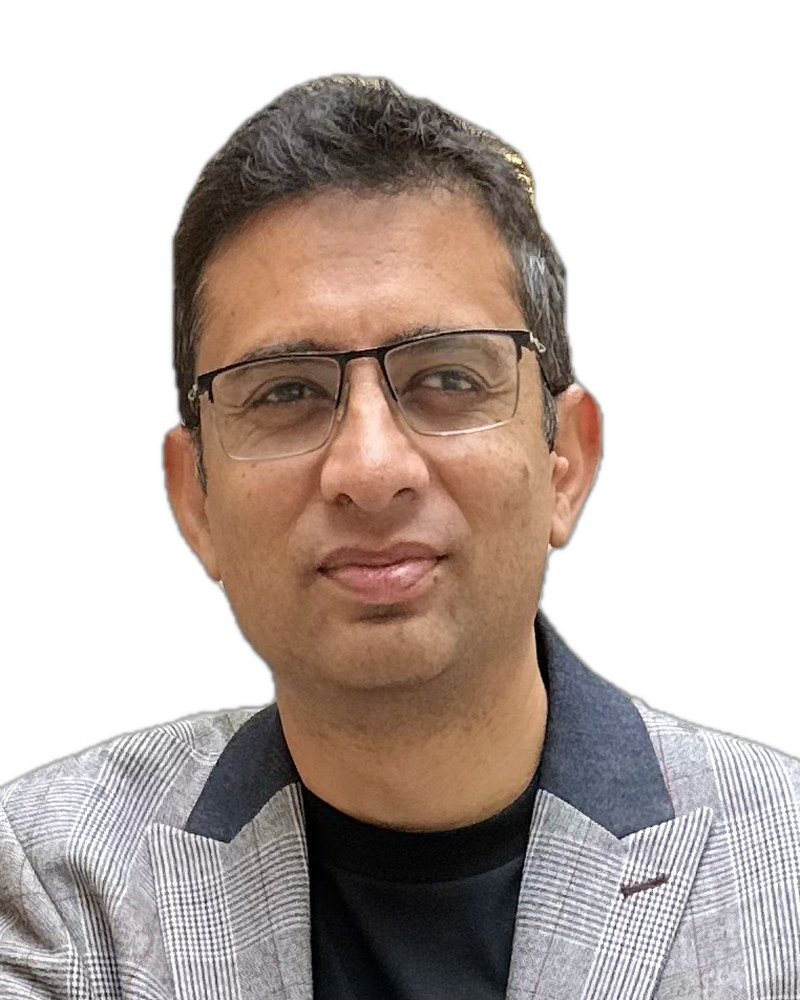
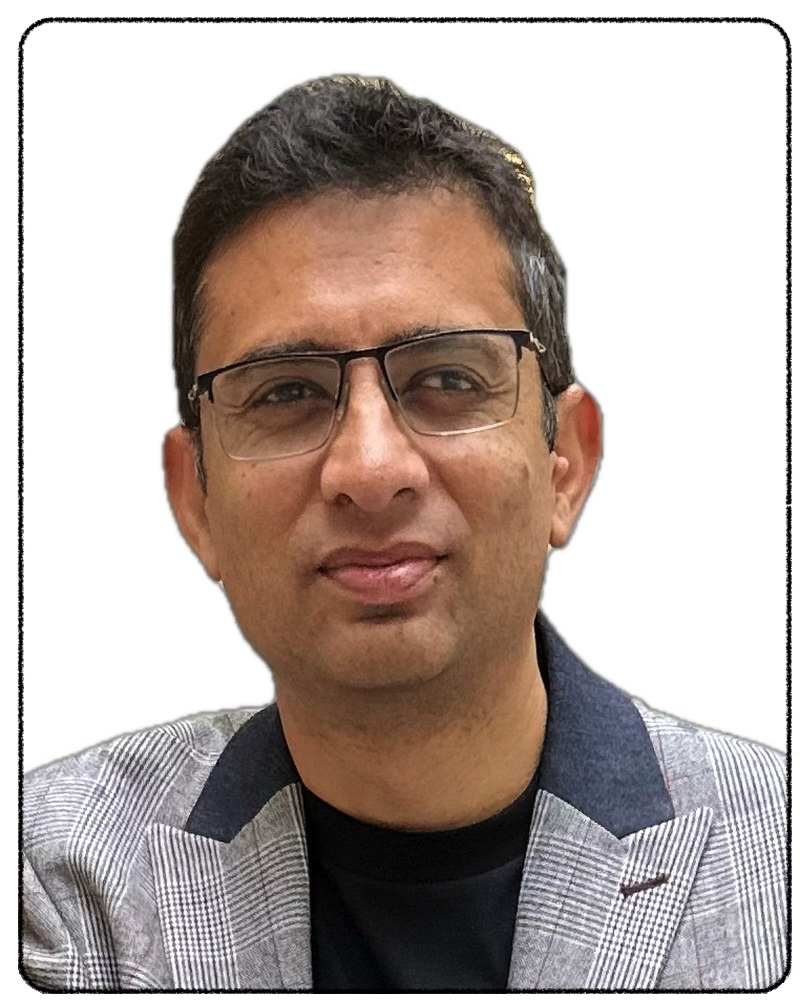
Add files via upload

Changed region(s): [[0.0, 0.031, 1.0, 1.0], [0.0312, 0.0, 0.9688, 0.031]]

diff --git a/site.js b/site.js
@@ -1,0 +1,46 @@
+/* samaransari.com  |  shared behaviour  |  2026-09-10
+   Creates a back-to-top button and shows it once the page is scrolled.
+   Every page loads this file, so changes here apply everywhere. */
+
+(function () {
+  var btn = document.createElement('button');
+  btn.className = 'to-top';
+  btn.type = 'button';
+  btn.setAttribute('aria-label', 'Back to top');
+  btn.setAttribute('aria-hidden', 'true');
+  btn.innerHTML =
+    '<svg viewBox="0 0 24 24" width="18" height="18" aria-hidden="true" focusable="false">' +
+    '<path d="M12 19V6M12 5l-7 7M12 5l7 7" fill="none" stroke="currentColor" ' +
+    'stroke-width="2" stroke-linecap="square"/></svg>';
+  document.body.appendChild(btn);
+
+  var shown = false;
+  var threshold = 700;
+
+  function update() {
+    var y = window.pageYOffset || document.documentElement.scrollTop;
+    var should = y > threshold;
+    if (should !== shown) {
+      shown = should;
+      btn.classList.toggle('is-visible', shown);
+      btn.setAttribute('aria-hidden', shown ? 'false' : 'true');
+    }
+  }
+
+  var ticking = false;
+  window.addEventListener('scroll', function () {
+    if (!ticking) {
+      window.requestAnimationFrame(function () { update(); ticking = false; });
+      ticking = true;
+    }
+  }, { passive: true });
+
+  btn.addEventListener('click', function () {
+    var reduce = window.matchMedia('(prefers-reduced-motion: reduce)').matches;
+    window.scrollTo({ top: 0, behavior: reduce ? 'auto' : 'smooth' });
+    var brand = document.querySelector('.site .brand');
+    if (brand) { brand.focus({ preventScroll: true }); }
+  });
+
+  update();
+})();

diff --git a/style.css b/style.css
@@ -225,3 +225,33 @@ footer.site-foot{
   margin-top:clamp(3rem,8vw,4.5rem);
 }
 footer.site-foot p{max-width:none;margin:0 0 .3rem}
+
+/* ---- back to top button (created by site.js) ---- */
+.to-top{
+  position:fixed;
+  right:clamp(.9rem,3vw,1.75rem);
+  bottom:calc(clamp(.9rem,3vw,1.75rem) + env(safe-area-inset-bottom,0px));
+  width:2.9rem;
+  height:2.9rem;
+  display:grid;
+  place-items:center;
+  padding:0;
+  border:1px solid var(--line);
+  border-radius:2px;
+  background:var(--bg);
+  color:var(--accent);
+  cursor:pointer;
+  box-shadow:0 1px 3px rgba(18,23,27,.10);
+  opacity:0;
+  visibility:hidden;
+  transform:translateY(.4rem);
+  transition:opacity .18s ease, transform .18s ease, visibility .18s;
+  z-index:50;
+}
+.to-top.is-visible{opacity:1;visibility:visible;transform:none}
+.to-top:hover{border-color:var(--accent);background:var(--tint)}
+.to-top:focus-visible{outline:2px solid var(--accent);outline-offset:3px}
+@media (prefers-reduced-motion: reduce){
+  .to-top{transition:none}
+  html{scroll-behavior:auto}
+}

diff --git a/teaching.html b/teaching.html
@@ -17,7 +17,7 @@
 <body>
 <div class="wrap">
 <header class="site">
-  <a class="brand" href="index.html">Samar Ansari</a>
+  <a class="brand" href="index.html" id="top">Samar Ansari</a>
   <nav aria-label="Main"><ul><li><a href="index.html">Home</a></li><li><a href="research.html">Research</a></li><li><a href="publications.html">Publications</a></li><li><a href="teaching.html" aria-current="page">Teaching</a></li><li><a href="writing.html">Writing</a></li><li><a href="cv.html">CV and contact</a></li></ul></nav>
 </header>
 <h1 class="page-title">Teaching and supervision</h1>
@@ -79,5 +79,6 @@
 <p>Page last updated 8 September 2026.</p>
 </footer>
 </div>
+<script src="site.js" defer></script>
 </body>
 </html>

diff --git a/writing.html b/writing.html
@@ -17,7 +17,7 @@
 <body>
 <div class="wrap">
 <header class="site">
-  <a class="brand" href="index.html">Samar Ansari</a>
+  <a class="brand" href="index.html" id="top">Samar Ansari</a>
   <nav aria-label="Main"><ul><li><a href="index.html">Home</a></li><li><a href="research.html">Research</a></li><li><a href="publications.html">Publications</a></li><li><a href="teaching.html">Teaching</a></li><li><a href="writing.html" aria-current="page">Writing</a></li><li><a href="cv.html">CV and contact</a></li></ul></nav>
 </header>
 <h1 class="page-title">Writing and open work</h1>
@@ -46,5 +46,6 @@
 <p>Page last updated 8 September 2026.</p>
 </footer>
 </div>
+<script src="site.js" defer></script>
 </body>
 </html>

diff --git a/cv.html b/cv.html
@@ -17,7 +17,7 @@
 <body>
 <div class="wrap">
 <header class="site">
-  <a class="brand" href="index.html">Samar Ansari</a>
+  <a class="brand" href="index.html" id="top">Samar Ansari</a>
   <nav aria-label="Main"><ul><li><a href="index.html">Home</a></li><li><a href="research.html">Research</a></li><li><a href="publications.html">Publications</a></li><li><a href="teaching.html">Teaching</a></li><li><a href="writing.html">Writing</a></li><li><a href="cv.html" aria-current="page">CV and contact</a></li></ul></nav>
 </header>
 <h1 class="page-title">CV and contact</h1>
@@ -88,5 +88,6 @@
 <p>Page last updated 8 September 2026.</p>
 </footer>
 </div>
+<script src="site.js" defer></script>
 </body>
 </html>

diff --git a/publications.html b/publications.html
@@ -17,7 +17,7 @@
 <body>
 <div class="wrap">
 <header class="site">
-  <a class="brand" href="index.html">Samar Ansari</a>
+  <a class="brand" href="index.html" id="top">Samar Ansari</a>
   <nav aria-label="Main"><ul><li><a href="index.html">Home</a></li><li><a href="research.html">Research</a></li><li><a href="publications.html" aria-current="page">Publications</a></li><li><a href="teaching.html">Teaching</a></li><li><a href="writing.html">Writing</a></li><li><a href="cv.html">CV and contact</a></li></ul></nav>
 </header>
 <h1 class="page-title">Publications</h1>
@@ -227,5 +227,6 @@
 <p>Page last updated 8 September 2026.</p>
 </footer>
 </div>
+<script src="site.js" defer></script>
 </body>
 </html>

diff --git a/research.html b/research.html
@@ -17,7 +17,7 @@
 <body>
 <div class="wrap">
 <header class="site">
-  <a class="brand" href="index.html">Samar Ansari</a>
+  <a class="brand" href="index.html" id="top">Samar Ansari</a>
   <nav aria-label="Main"><ul><li><a href="index.html">Home</a></li><li><a href="research.html" aria-current="page">Research</a></li><li><a href="publications.html">Publications</a></li><li><a href="teaching.html">Teaching</a></li><li><a href="writing.html">Writing</a></li><li><a href="cv.html">CV and contact</a></li></ul></nav>
 </header>
 <h1 class="page-title">Research</h1>
@@ -89,5 +89,6 @@
 <p>Page last updated 8 September 2026.</p>
 </footer>
 </div>
+<script src="site.js" defer></script>
 </body>
 </html>

diff --git a/index.html b/index.html
@@ -38,7 +38,7 @@
 <body>
 <div class="wrap">
 <header class="site">
-  <a class="brand" href="index.html">Samar Ansari</a>
+  <a class="brand" href="index.html" id="top">Samar Ansari</a>
   <nav aria-label="Main"><ul><li><a href="index.html" aria-current="page">Home</a></li><li><a href="research.html">Research</a></li><li><a href="publications.html">Publications</a></li><li><a href="teaching.html">Teaching</a></li><li><a href="writing.html">Writing</a></li><li><a href="cv.html">CV and contact</a></li></ul></nav>
 </header>
 <div class="masthead">
@@ -84,5 +84,6 @@
 <p>Page last updated 8 September 2026.</p>
 </footer>
 </div>
+<script src="site.js" defer></script>
 </body>
 </html>
